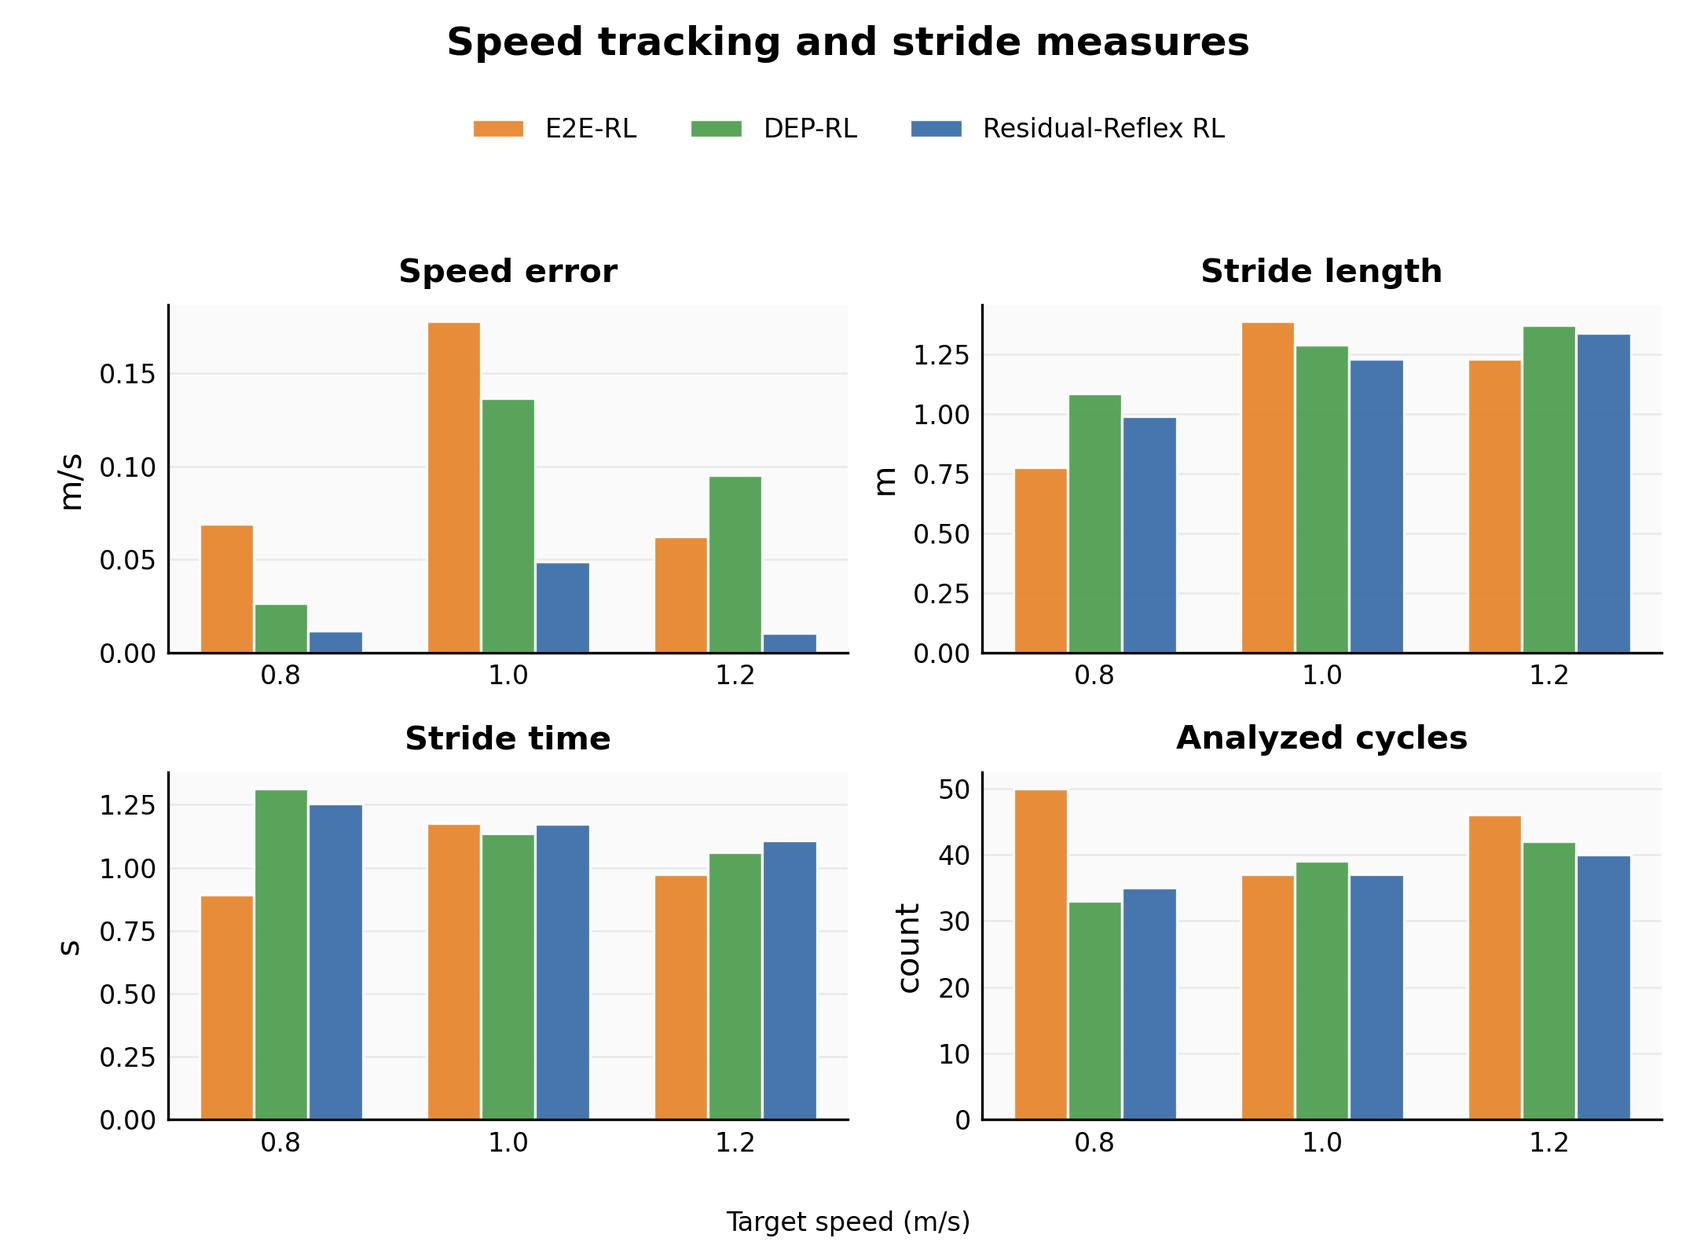
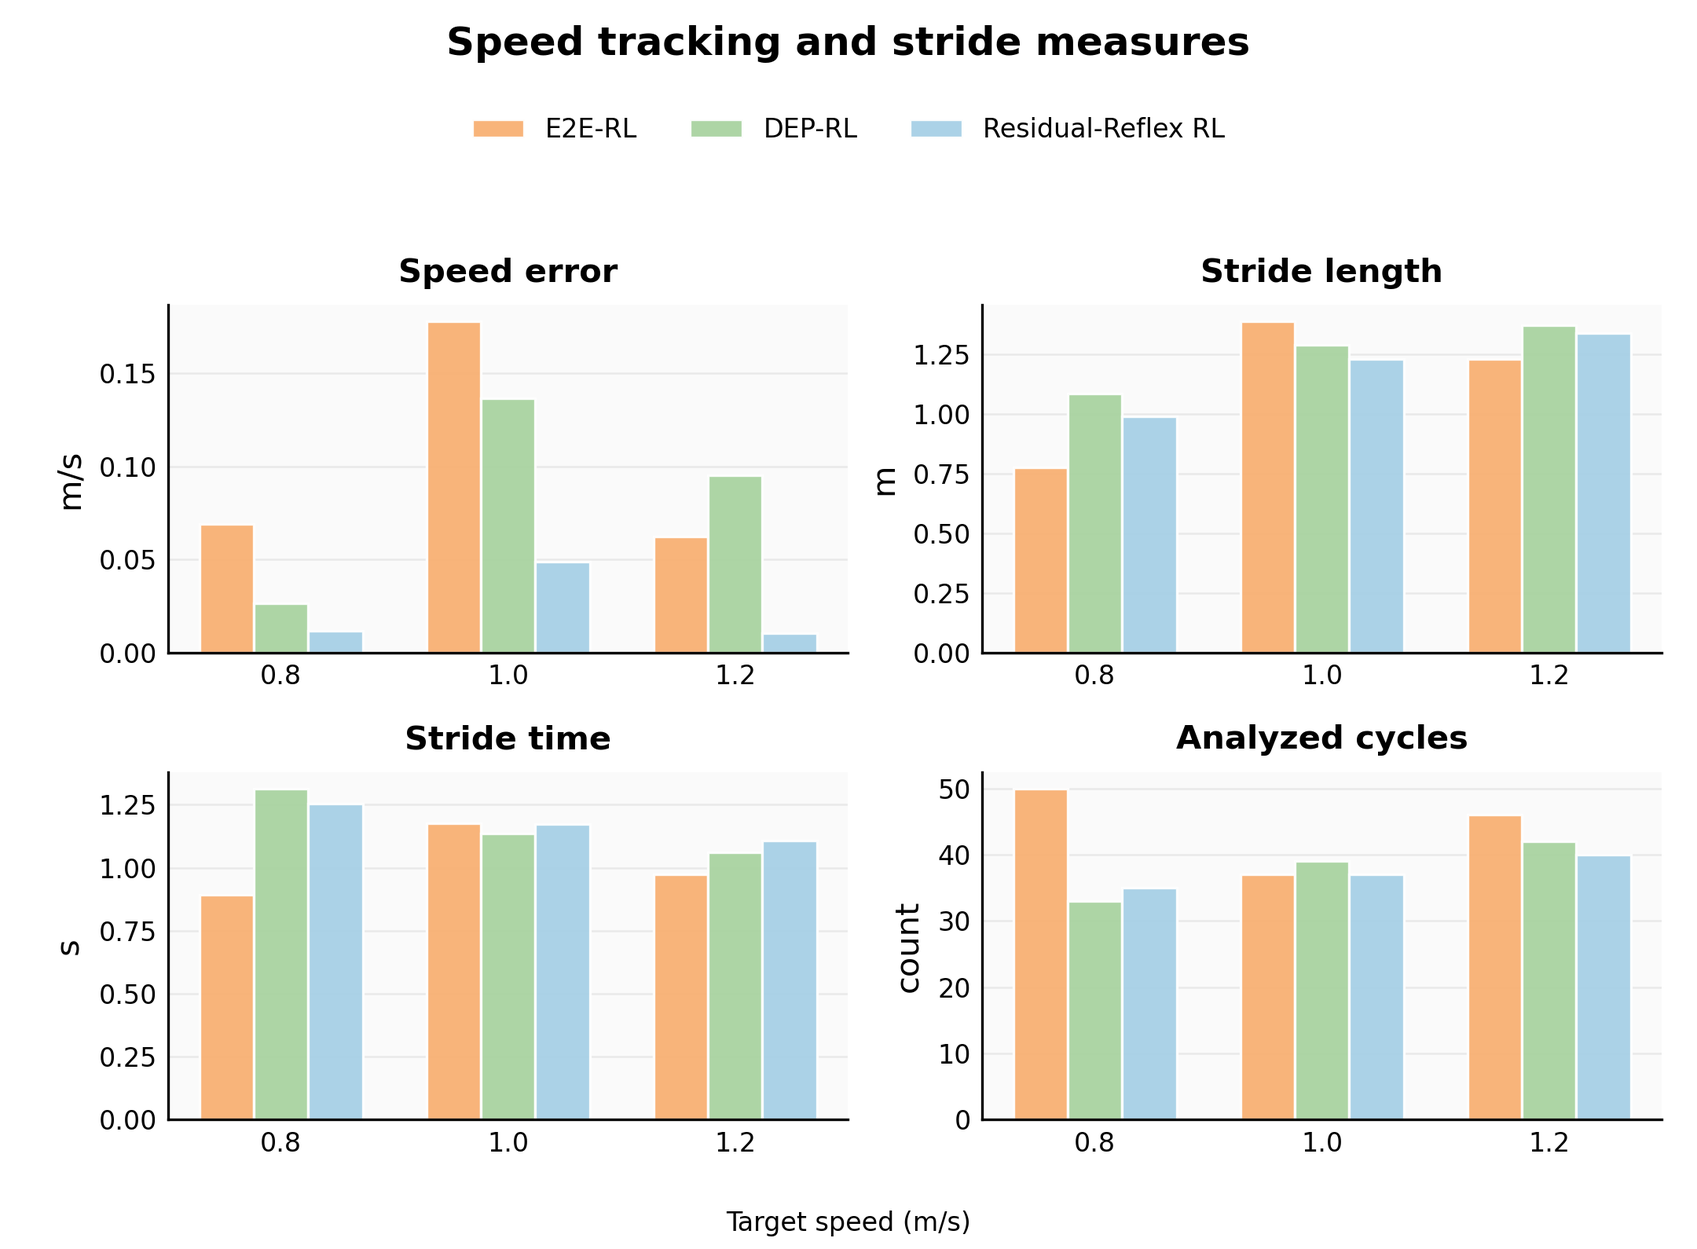
Polish manuscript and document repeated push recovery

diff --git a/main.tex b/main.tex
@@ -241,7 +241,7 @@ Overall, these studies indicate that existing approaches cannot simultaneously p
 \label{sec:method}
 \subsection{Framework Overview}
 Figure~\ref{framwork} illustrates the proposed Reflex-Informed Neuromuscular Reinforcement Learning framework. A fixed phase-dependent reflex controller provides the underlying neuromuscular control mechanism, while the reinforcement learning policy generates four-dimensional residual actions that regulate selected reflex parameters according to the current musculoskeletal state. The resulting muscle stimulation drives the musculoskeletal simulation, which produces the next state and reward. During learning, transitions $(\mathbf{s}_t,\mathbf{a}_t,r_t,\mathbf{s}_{t+1})$
-are stored in the replay buffer $\mathcal{D}$. Maximum a Posteriori Policy Optimization (MPO) updates the policy through an off-policy actor–critic framework using replayed transitions \cite{mpo2018}
+are stored in the replay buffer $\mathcal{D}$. Maximum a Posteriori Policy Optimization (MPO) updates the policy through an off-policy actor–critic framework using replayed transitions \cite{mpo2018}.
 
 % Figure~\ref{framwork} shows the execution loop and the learning loop. During
 % execution, the policy maps the current musculoskeletal state $\mathbf{s}_t$ to a
@@ -334,7 +334,7 @@ activation dynamics to obtain activation $\alpha_i$, after which the Hill-type m
 F_i^{\mathrm{MT}}=\mathcal{F}_i(\alpha_i,l_i,\dot l_i),
 \end{equation}
 where $\mathcal{A}_i$ denotes the activation dynamics and $\mathcal{F}_i$
-denotes the Hill-type muscle mode. Muscle forces are then transformed into generalized joint moments through configuration-dependent muscle moment arms,
+denotes the Hill-type muscle model. Muscle forces are then transformed into generalized joint moments through configuration-dependent muscle moment arms,
 \begin{equation}
 \tau_{\mathrm{mus},k}=
 \sum_{i\in\mathcal{M}_k}r_{i,k}(\mathbf{q})F_i^{\mathrm{MT}},
@@ -350,7 +350,7 @@ $k$, and $\mathcal{M}_k$ denotes the set of muscles spanning that coordinate. Fi
 where $\mathbf{q}$, $\dot{\mathbf{q}}$, and $\ddot{\mathbf{q}}$ are the
 generalized coordinates, velocities, and accelerations, respectively;
 $\mathbf{M}(\mathbf{q})$ is the mass matrix; $\mathbf{h}(\mathbf{q},\dot{\mathbf{q}})$ collects gravitational, Coriolis,
-and centrifugal terms; and $\boldsymbol{\tau}_{\mathrm{mus}}$ represents the generalized forces induced by foot–ground contact. 
+and centrifugal terms; $\boldsymbol{\tau}_{\mathrm{mus}}$ denotes the generalized joint moments generated by the muscles; $\mathbf{J}_{c}$ is the contact Jacobian; and $\mathbf{f}_{c}$ denotes the foot--ground contact forces.
 
 \subsection{Neuromuscular Control Mechanism}
 \subsubsection{Physiological feedback}
@@ -372,7 +372,7 @@ A finite-state controller divides the gait cycle into five phases: \textbf{Early
 \Phi_{\mathrm{sw}}  &= \{\mathrm{LF,SW,LA}\}.
 \end{aligned}
 \end{equation*}
-Parameters are shared among phases within the same group but remain independent across groups. For example, the BIF force-feedback gain used during Early Stance and Late Stance differs from that used during Liftoff, Swing, and Landing, allowing the same sensory feedback to serve different functional roles across the gait cycle. Consequently, the same sensory feedback can serve different functions across the gait cycle, including stance support, push-off, and swing control, without requiring a separate parameter for every gait phase. Fig.~\ref{framwork}(b1) summarizes the resulting topology across the nine modeled muscle groups. Monoarticular pathways involve TA and SOL at the ankle, VAS and BIF at the knee, and ILI and GLU at the hip. The biarticular muscles GAS, FEM, and HAM span two adjacent joints and therefore contribute to the control of both.
+Parameters are shared among phases within the same group but remain independent across groups. For example, the BIF force-feedback gain used during Early Stance and Late Stance differs from that used during Liftoff, Swing, and Landing, allowing the same sensory feedback to support different functions, including stance support, push-off, and swing control, without requiring a separate parameter for every gait phase. Fig.~\ref{framwork}(b1) summarizes the resulting topology across the nine modeled muscle groups. Monoarticular pathways involve TA and SOL at the ankle, VAS and BIF at the knee, and ILI and GLU at the hip. The biarticular muscles GAS, FEM, and HAM span two adjacent joints and therefore contribute to the control of both.
 
 
 The active parameter-sharing groups are determined by the current gait phase. During Early Stance and Late Stance, the controller activates the all-phase and stance-specific pathways, whereas during Liftoff, Swing, and Landing, it activates the all-phase and swing-related pathways. For convenience, let $\phi(t)$ denote the current gait phase and $\Gamma(\phi)$ the corresponding set of active parameter-sharing groups, such that $\Gamma(\phi)=\{\mathrm{all},\mathrm{st}\}$ during Early Stance and $\Gamma(\phi)=\{\mathrm{all},\mathrm{sw}\}$ during Liftoff, Swing, and Landing.
@@ -390,7 +390,7 @@ u_{V,i\leftarrow j}^{(g)}(t) &= K_{V,i\leftarrow j}^{(g)}
 u_{F,i\leftarrow j}^{(g)}(t) &= K_{F,i\leftarrow j}^{(g)}
 (\tilde{f}_j(t-t_D)-\tilde{f}_{0,i\leftarrow j}^{(g)}),
 \end{align}
-Where $\tilde{l}_j$,$\tilde{v}_j$, and $\tilde{f}_j$ denote delayed normalized muscle length, velocity, and force measured from source muscle $j$, respectively. The corresponding gains $K_{L}$, $K_{V}$, and $K_{F}$ and thresholds $\tilde{l}_{0}$, $\tilde{v}_{0}$, and $\tilde{f}_{0}$ are indexed by the active parameter-sharing group g; and $t_D$ is the sensorimotor delay. 
+where $\tilde{l}_j$, $\tilde{v}_j$, and $\tilde{f}_j$ denote delayed normalized muscle length, velocity, and force measured from source muscle $j$, respectively. The corresponding gains $K_{L}$, $K_{V}$, and $K_{F}$ and thresholds $\tilde{l}_{0}$, $\tilde{v}_{0}$, and $\tilde{f}_{0}$ are indexed by the active parameter-sharing group $g$, and $t_D$ is the sensorimotor delay.
 
 A reflex-like postural feedback term is also used to couple trunk pitch
 errors to selected lower-limb muscles.
@@ -399,7 +399,7 @@ u_{\text{PD},i}^{(g)}(t)=
 K_{P,i}^{(g)}(\theta(t-t_D)-\theta_{0,i}^{(g)})+
 K_{D,i}^{(g)}\dot{\theta}(t-t_D).
 \end{equation}
-Where $\theta$ and $\dot{\theta}$ are the delayed trunk pitch angle and angular
+where $\theta$ and $\dot{\theta}$ are the delayed trunk pitch angle and angular
 velocity, $\theta_{0,i}^{(g)}$ is the target pitch offset for muscle $i$, and
 $K_{P,i}^{(g)}$ and $K_{D,i}^{(g)}$ are the proportional and derivative
 postural-feedback gains for the active group.
@@ -413,9 +413,9 @@ u_i(t) = \sum_{g\in\Gamma(\phi(t))}\Bigg[
 +u_{V,i\leftarrow j}^{(g)}(t)+u_{F,i\leftarrow j}^{(g)}(t)\right)\Bigg].
 \end{aligned}
 \end{equation}
-Where $u_{C,i}^{(g)}$ is the group-dependent constant background stimulation and
+where $u_{C,i}^{(g)}$ is the group-dependent constant background stimulation and
 $\mathcal{M}_{g}$ is the set of source muscles connected to target $i$ in the
-corresponding active group. The resulting muscle stimulation drives the activation dynamics and musculoskeletal model described in Sec. 3.2.
+corresponding active group. The resulting muscle stimulation drives the activation dynamics and musculoskeletal model described in Sec.~\ref{sec:musculoskeletal-model}.
 
 \subsection{Residual Neuromuscular Regulation}
 
@@ -473,7 +473,7 @@ The actor and critic are implemented as multilayer perceptrons with two hidden l
 
 Transitions $(\mathbf{s}_t,\mathbf{a}_t,r_t,\mathbf{s}_{t+1})$ are stored in a replay buffer $\mathcal{D}$. MPO updates the critic from replayed transitions and optimizes the actor under a KL-divergence constraint, enabling stable off-policy learning while reusing collected experience. We follow the standard MPO update procedure and therefore omit the derivation here.
 
-Policy optimization is driven by the following reward function, which consists of a target-speed reward $r_v$ together with penalty terms for excessive contact loading ($c_{grf}$), temporal excitation variation ($c_e$), unnecessary muscle recruitment ($c_m$), joint-limit loading ($c_q$), pelvis instability ($c_{\theta},c_{\dot\theta},c_{com}$), and rapid changes in the residual action ($c_{\Delta a}$)
+Policy optimization is driven by the following reward function, which consists of a target-speed reward $r_v$ together with penalty terms for excessive contact loading ($c_{grf}$), temporal excitation variation ($c_e$), unnecessary muscle recruitment ($c_m$), joint-limit loading ($c_q$), pelvis instability ($c_{\theta},c_{\dot\theta},c_{com}$), and rapid changes in the residual parameter increments ($c_{\Delta p}$)
 
 
 \begin{equation}
@@ -483,7 +483,7 @@ r_t={}&w_v r_v
 -\lambda_q c_q\\
 &-\lambda_{\theta}c_{\theta}
 -\lambda_{\dot\theta}c_{\dot\theta}
--\lambda_{com}c_{com}-\lambda_{\Delta a}c_{\Delta a},
+-\lambda_{com}c_{com}-\lambda_{\Delta p}c_{\Delta p},
 \end{aligned}
 \end{equation}
 The target-speed reward is defined as
@@ -515,11 +515,12 @@ $[x]_+=\max(0,x)$.
 c_\theta &= (\theta_t-\theta^*)^2,\\
 c_{\dot\theta} &= \dot{\theta}_t^{\,2},\\
 c_{com} &= (v_{com,y})^2,\\
-c_{\Delta a} &= \frac14\|\mathbf{a}_t-\mathbf{a}_{t-1}\|_2^2.
+\boldsymbol{\delta p}_t &= \lambda\mathbf{p}_0\odot\mathbf{a}_t,\\
+c_{\Delta p} &= \frac14\|\boldsymbol{\delta p}_t-\boldsymbol{\delta p}_{t-1}\|_2^2.
 \end{aligned}
 \label{eq:reward_cost3}
 \end{equation}
-where $\theta^*$ is the target pelvis pitch; $v_{com,y}$ is the vertical center-of-mass velocity; and $\mathbf a_t$ denotes the four-dimensional residual action produced by the policy.
+where $\theta^*$ is the target pelvis pitch; $v_{com,y}$ is the vertical center-of-mass velocity; $\mathbf a_t$ denotes the four-dimensional residual action produced by the policy; $\mathbf p_0$ collects the corresponding nominal reflex parameters; $\odot$ denotes element-wise multiplication; and $\boldsymbol{\delta p}_t$ is the vector of residual parameter increments applied at time $t$.
 
 
 \section{Evaluation}
@@ -579,6 +580,7 @@ e = \frac{1}{N}\sum_{k=1}^{N}
 }{
 \max\left(0.01, y_{\max}(x_k)-y_{\min}(x_k)\right)
 },
+\label{eq:reference_range_violation}
 \end{equation}
 where $[z]_+=\max(z,0)$.
 The corresponding score is
@@ -588,7 +590,7 @@ S = 100 \cdot \mathrm{clip}(1-e,0,1).
 Higher scores indicate closer agreement with the human-reference gait profiles. A score of 100 indicates that the averaged trajectory remains entirely within the reference range. The overall kinematic score is computed as the average of the hip, knee, and ankle scores.
 
 \paragraph{Vertical GRF human-reference score}
-To evaluate dynamic plausibility, we analyze the vertical ground reaction force (GRF), which directly reflects body loading and push-off behavior. Individual left and right GRF gait cycles are visualized to assess stance-phase loading patterns, double-support and propulsion behavior, and stride-to-stride consistency. The numerical GRF score is computed using the same human-reference range metric as in Sec. 4.2.2, applied to the vertical GRF profile, whereas the waveform plots provide a qualitative comparison of left–right symmetry and stride-to-stride repeatability.
+To evaluate dynamic plausibility, we analyze the vertical ground reaction force (GRF), which directly reflects body loading and push-off behavior. Individual left and right GRF gait cycles are visualized to assess stance-phase loading patterns, double-support and propulsion behavior, and stride-to-stride consistency. The numerical GRF score is computed using the human-reference range metric in Eq.~\ref{eq:reference_range_violation}, applied to the vertical GRF profile, whereas the waveform plots provide a qualitative comparison of left–right symmetry and stride-to-stride repeatability.
 
 \paragraph{Symmetry and repeatability score}
 To evaluate gait consistency and repeatability, we quantify bilateral symmetry and stride-to-stride repeatability. Bilateral symmetry is measured as the root-mean-square (RMS) difference between the average left and right normalized gait-cycle waveforms. For a gait-cycle quantity $y$, this waveform difference is
@@ -780,7 +782,7 @@ ranges. Residual-Reflex RL produces the most concentrated curves.}
 \end{figure}
 
 \subsubsection{Gait Consistency}
-The symmetry and repeatability scores demonstrate that Residual-Reflex RL consistently produces more symmetric and repeatable gait cycles than E2E-RL and DEP-RL. As summarized in Table~\ref{tab:symmetry_variability}, Residual-Reflex RL achieved lower left–right waveform differences and lower stride time and stride length coefficients of variation across all target walking speeds. The Hip, Knee, Ankle, and GRF columns report the left–right waveform difference$D_y$, whereas the Time CV and Length CV columns report the coefficient of variation of stride time and stride length, respectively. The largest improvements are observed in ankle symmetry and stride variability, where E2E-RL and DEP-RL exhibit substantially less repeatable gait cycles.
+The symmetry and repeatability scores demonstrate that Residual-Reflex RL consistently produces more symmetric and repeatable gait cycles than E2E-RL and DEP-RL. As summarized in Table~\ref{tab:symmetry_variability}, Residual-Reflex RL achieved lower left–right waveform differences and lower stride time and stride length coefficients of variation across all target walking speeds. The Hip, Knee, Ankle, and GRF columns report the left–right waveform difference $D_y$, whereas the Time CV and Length CV columns report the coefficient of variation of stride time and stride length, respectively. The largest improvements are observed in ankle symmetry and stride variability, where E2E-RL and DEP-RL exhibit substantially less repeatable gait cycles.
 
 These quantitative results are consistent with the waveform visualizations, indicating that residual-reflex modulation improves bilateral coordination as well as stride-to-stride repeatability. For example, at 1.2 m/s, Residual-Reflex RL achieved stride time and stride length coefficients of variation of only 0.70\% and 0.74\%, respectively, indicating that the standard deviations of these quantities were below 1\% of their corresponding mean values. In contrast, E2E-RL and DEP-RL exhibited considerably larger cycle-to-cycle variability.
 
@@ -870,7 +872,7 @@ The speed adaptation results further reveal how the learned controller responds 
 Table~\ref{tab:weakness_adaptation} and
 Fig.~\ref{fig:weakness_speed_adaptation}, the realized walking speed decreased gradually from 1.20 m/s under the nominal model to 0.95 m/s at 83\% soleus strength. Rather than maintaining the commanded speed at the expense of stability, the controller adopted a slower but stable gait as muscle capacity decreased. This behavior resembles a common compensatory strategy observed in human walking, where reduced plantarflexor strength is accompanied by a reduction in preferred walking speed. Importantly, the slower gait was not merely a degraded survival behavior. As shown in Fig.~\ref{fig:weakness_kinematic_profiles}, the generated joint trajectories remained close to the human-reference profiles across all tested weakness levels, yielding a joint-kinematic score of 89.0\% even at 83\% soleus strength. These results demonstrate that the proposed controller accommodates substantial changes in muscle capacity while preserving physiologically plausible locomotion without retraining.
 
-The accompanying \suppvideo{} further illustrates this adaptation continuously. As plantarflexor capacity decreases, Residual-Reflex RL maintains a recognizable stance–swing sequence and upright progression while gradually reducing walking speed. Under the same weakened models, the CMA-ES-optimized reflex controller loses balance and terminates, whereas the synchronized residual-action traces show continuous online modulation rather than playback of a fixed excitation pattern.
+The accompanying \suppvideo{} further illustrates the representative 83\% weakness condition. Residual-Reflex RL maintains a recognizable stance--swing sequence and upright progression, whereas the CMA-ES-optimized reflex controller loses balance and terminates. The synchronized gait-cycle curves further show the evolution of the hip, knee, ankle, and vertical GRF profiles during the two rollouts.
 
 \subsubsection{Residual-action analysis}
 The residual-action RMS values further explain the adaptation strategy adopted by the learned controller. Channel definitions are given in Table~\ref{tab:residual_actions}. Here we focus on how their modulation changes with soleus capacity. The soleus-related channel $a_3$ exhibits the largest RMS magnitude throughout the tested weakness range, indicating that ankle support and propulsion remain strongly regulated as plantarflexor capacity decreases. The policy does not compensate by monotonically increasing $a_3$. Instead, it accepts a lower walking speed while redistributing modulation across the remaining pathways. The stronger response of $a_4$ under greater weakness is consistent with increased reliance on knee-extension support when ankle push-off capacity is reduced, whereas $a_1$ and $a_2$ change more gradually. Together, the paired trends of ($a_1$,$a_2$) and ($a_3$,$a_4$) indicate coordinated redistribution across swing-related and stance-support pathways rather than single-parameter compensation. These results demonstrate that the four-dimensional residual action provides a compact adaptive interface for online neuromuscular regulation, enabling the same trained policy to generalize across weakened musculoskeletal models without retraining.
@@ -889,18 +891,18 @@ weakness levels without retraining.}
 \begin{tabular*}{\columnwidth}{@{\extracolsep{\fill}}c c c c c}
 \toprule
 \textbf{Soleus} &
-\makecell{\textbf{Residual}\\\textbf{duration}} &
+\makecell{\textbf{Residual}\\\textbf{duration}\\\textbf{(s)}} &
 \makecell{\textbf{Residual}\\\textbf{full}} &
-\makecell{\textbf{CMA-ES}\\\textbf{duration}} &
+\makecell{\textbf{CMA-ES}\\\textbf{duration}\\\textbf{(s)}} &
 \makecell{\textbf{CMA-ES}\\\textbf{full}} \\
 \midrule
 83\%  & 25.0 & Yes & 1.27 & No \\
-87\%  & 25.0s & Yes & 1.28s & No \\
-90\%  & 25.0s & Yes & 1.28s & No \\
-93\%  & 25.0s & Yes & 1.29s & No \\
-95\%  & 25.0s & Yes & 1.48s & No \\
-97\%  & 25.0s & Yes & 1.47s & No \\
-100\% & 25.0s & Yes & 25.0s & Yes \\
+87\%  & 25.0 & Yes & 1.28 & No \\
+90\%  & 25.0 & Yes & 1.28 & No \\
+93\%  & 25.0 & Yes & 1.29 & No \\
+95\%  & 25.0 & Yes & 1.48 & No \\
+97\%  & 25.0 & Yes & 1.47 & No \\
+100\% & 25.0 & Yes & 25.0 & Yes \\
 \bottomrule
 \end{tabular*}
 \end{table}
@@ -974,7 +976,7 @@ As summarized in Table~\ref{tab:push_perturbation}, Residual-Reflex RL successfu
 
 Figure~\ref{fig:push_snapshots} provides a qualitative comparison of the recovery process under the representative 100 N single-push condition. Before the perturbation, both controllers produce stable walking. Following the force pulse, the CMA-ES-optimized reflex controller progressively loses balance and terminates, whereas Residual-Reflex RL reorganizes the subsequent steps, restores upright walking, and completes the full evaluation. The matched frames therefore distinguish sustained recovery from trajectories that merely delay failure.
 
-The accompanying \suppvideo{} further illustrates the complete recovery process. Residual-Reflex RL rapidly reorganizes foot placement and resumes periodic walking after the disturbance, whereas the CMA-ES-optimized reflex controller fails to regain a stable gait. Under repeated perturbations, the video also demonstrates the limit of the learned recovery capability: the controller remains stable under repeated 75 N pushes but eventually fails under repeated 100 N disturbances. Together with the plantarflexor-weakness experiments, these results demonstrate that residual-reflex modulation provides a flexible online adaptation mechanism for changes in both musculoskeletal capacity and external disturbances.
+The accompanying \suppvideo{} first illustrates the single-push recovery process by comparing Residual-Reflex RL under 75~N and 100~N backward pushes with the CMA-ES-optimized reflex controller under a 100~N backward push. Residual-Reflex RL reorganizes foot placement and resumes periodic walking after the disturbance, whereas the CMA-ES-optimized reflex controller fails to regain a stable gait. The video then compares Residual-Reflex RL under repeated 75~N and 100~N backward pushes applied every 5~s. The controller remains stable throughout the 75~N trial but terminates after 20.1~s under repeated 100~N pushes, illustrating the boundary of its recovery capability. Together with the plantarflexor-weakness experiments, these results demonstrate that residual-reflex modulation provides a flexible online adaptation mechanism for changes in both musculoskeletal capacity and external disturbances.
 
 \begin{table}[!t]
 \centering
@@ -1001,7 +1003,7 @@ The accompanying \suppvideo{} further illustrates the complete recovery process.
 \multirow{2}{*}{Single push} & 75  & 4.5 & 1.098 \\
 & & 100 & 4.6 & 1.069 \\
 \cmidrule(lr){2-5}
-& \multirow{2}{*}{Every 5s} & 75  & 4.5 & 1.098 \\
+& \multirow{2}{*}{Every 5~s} & 75  & 4.5 & 1.098 \\
 & & 100 & 4.6 & 1.069 \\
 \bottomrule
 \end{tabular*}
